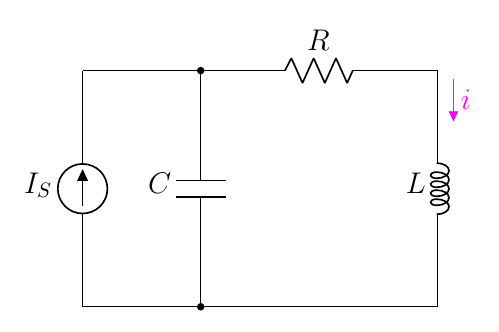
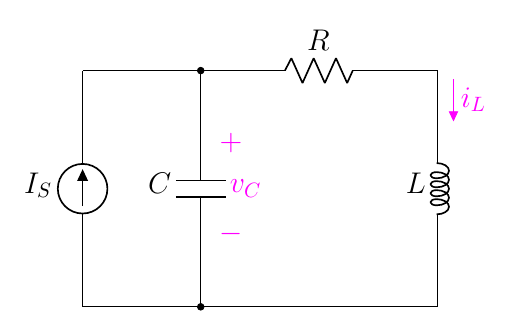
9.43

diff --git a/2.8 Underdamped/9.4 The Underdamped RLC Circuit/9.43-7th(new).tex b/2.8 Underdamped/9.4 The Underdamped RLC Circuit/9.43-7th(new).tex
@@ -23,11 +23,11 @@
     %%% find %%%
     % \node at (3.2,1.5)[]{$t=0$};
 
-    % \draw[magenta](7.2,0.5)
-    %     to[open, v>=$v_c(t)$] ++(0,2);
+    \draw[magenta](2.2,1)
+        to[open, v>=$v_C$] ++(0,2);
 
     \draw[circuitikz/current arrow color=magenta](6,4)
-        to[open,f>^=$\color{magenta}{i}$] ++(0,-2.4);
+        to[open,f>^=$\color{magenta}{i_L}$] ++(0,-2.4);
 
 \end{circuitikz}
 \end{document}
